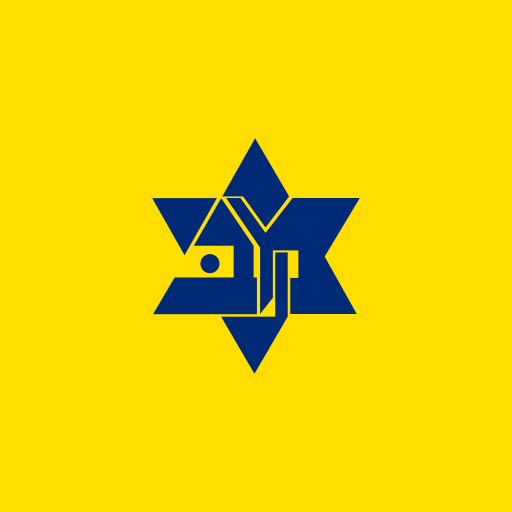
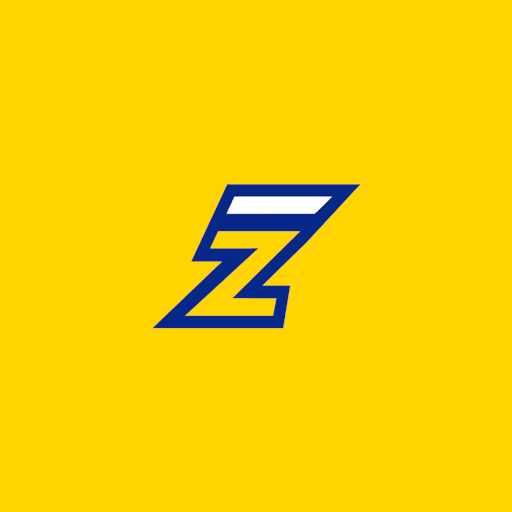
סבב תיקוני תצוגה במובייל + אייקון אפליקציה חדש (סימן Z)
מסך לבן בכניסה (landing-demo.html, אוברליי צהוב בזמן בדיקת session),
כרטיס-חצי-חתוך מטושטש בשורות גלילה (הוסרה mask-image), עיגולי קטגוריה
קטנים/מרובעים במובייל (הוגדלו + border-radius:50%), כיוון דגל ליד
"שלום רמי" הפוך, "הוסף עסק" עבר מהתפריט לפוטר home.html עם פריסת
מובייל נפרדת שלא עמוסה.

אייקוני ההתקנה (apple-touch/192/512/maskable) הוחלפו לסימן ה-Z של
המותג החדש; favicon-32.png (לשונית דפדפן) נשאר הלוגו הישן במפורש.

Changed region(s): [[0.2812, 0.2812, 0.7188, 0.7188]]

diff --git a/home.html b/home.html
@@ -168,7 +168,7 @@
       margin-bottom: 14px; line-height: 1.25;
     }
     .hero-title span { color: var(--ink); }
-    .hero-flag { vertical-align: -4px; margin-inline-start: 6px; }
+    .hero-flag { vertical-align: -4px; margin-inline-start: 6px; transform: scaleX(-1); }
     .search-bar {
       display: flex; align-items: center;
       background: var(--field); border-radius: var(--r-field);
@@ -196,17 +196,19 @@
     .cats-scroll::-webkit-scrollbar { display: none; }
     .cat-item {
       display: flex; flex-direction: column; align-items: center; gap: 8px;
-      flex-shrink: 0; width: 70px; cursor: pointer;
+      flex-shrink: 0; width: 84px; cursor: pointer;
       scroll-snap-align: start;
     }
+    /* גודל פרופורציונלי לכרטיסי-העסק (238px במובייל) — אותו יחס כמו בדסקטופ (78/294≈27%,
+       ר' @media min-width:761px למטה) במקום ה-52px הקודם שהיה קטן מדי במובייל (בקשה מפורשת). */
     .cat-circle {
-      width: 52px; height: 52px; border-radius: var(--r-tile);
+      width: 64px; height: 64px; border-radius: 50%;
       background: var(--field); color: var(--ink-2);
       display: flex; align-items: center; justify-content: center;
       flex-shrink: 0;
       transition: background .15s, color .15s;
     }
-    .cat-circle svg { width: 22px; height: 22px; }
+    .cat-circle svg { width: 27px; height: 27px; }
     .cat-item:nth-of-type(odd) .cat-circle  { background: #FFF3C9; color: #7A5B00; }
     .cat-item:nth-of-type(even) .cat-circle { background: #E3E9F7; color: #7A5B00; }
     .cat-item.active .cat-circle {
@@ -214,7 +216,7 @@
     }
     .cat-item:active .cat-circle { transform: scale(.93); }
     .cat-label {
-      font-size: 11.5px; font-weight: 600; color: var(--ink-2);
+      font-size: 12.5px; font-weight: 600; color: var(--ink-2);
       text-align: center; line-height: 1.25;
       font-family: 'Rubik', sans-serif;
       transition: color .15s, opacity .15s;
@@ -267,12 +269,8 @@
          ב-RTL "נשכח" והפריטים מתמרכזים/נדחקים במקום להיצמד לימין — ר' PROJECT_CONTEXT.md §31. */
       direction: rtl;
       justify-content: flex-start;
-      /* דהייה רכה רק בקצה השמאלי (שם תמיד נמצא הכרטיס-החצי-גלוי, ר' עיצוב X.5-כרטיסים) —
-         לא בקצה הימני: שם תמיד יושב הכרטיס הראשון האמיתי, שלם ומעוגן, בלי מה "לרמוז" עליו.
-         דהייה סימטרית (משני הצדדים) גרמה לבאג-אמת: היא כירסמה 28px מפיקסלים אמיתיים של הכרטיס
-         הראשון עצמו (לא רק מריפוד ריק), ויצרה "פינה לבנה" נראית-לעין בפינה הימנית שלו. */
-      -webkit-mask-image: linear-gradient(to right, transparent 0, black 28px, black 100%);
-      mask-image: linear-gradient(to right, transparent 0, black 28px, black 100%);
+      /* הוסרה דהייה (mask-image) שהייתה בקצה השמאלי — הכרטיס החצי-גלוי שם נראה מטושטש/דוהה
+         ללבן במקום "חצי כרטיס רגיל" (בקשה מפורשת, ר' PROJECT_CONTEXT.md). */
     }
     .cards-scroll::-webkit-scrollbar { display: none; }
 
@@ -847,6 +845,13 @@
     .site-footer-highlight.site-footer-link { text-decoration: none; }
     .site-footer-brand { color: var(--ink-3); font-weight: 700; }
     .footer-ig-icon { width: 13px; height: 13px; vertical-align: -2px; }
+    /* מובייל: השורה (כולל "הוסיפו את העסק שלכם" החדש) עמוסה מדי לצד הלוגו באותה שורה —
+       עוברים לעמודה עם הלוגו למטה (column-reverse על סדר ה-DOM המקורי: לוגו ואז שורת-קישורים)
+       ולא הפוך, כדי שהקישורים (המידע החשוב) יהיו למעלה, קרובים לתוכן העמוד. */
+    @media (max-width: 760px) {
+      .site-footer { flex-direction: column-reverse; align-items: center; gap: 8px; text-align: center; }
+      .site-footer-line { margin-inline-start: 0; }
+    }
 
     /* ══ קונטיינר רחב לדסקטופ — שטח-תוכן קבוע 1370px, ממורכז ══
        אותו רעיון מ-demo-redesign-home.html (מקור-האמת למידות), אבל עם שוליים מצומצמים (20px
@@ -1254,7 +1259,7 @@
 
 <footer class="site-footer">
   <img class="site-footer-logo" src="images/yellowzone-logo-horizontal.png" alt="Yellow Zone"/>
-  <div class="site-footer-line"><a class="site-footer-link site-footer-highlight" href="https://instagram.com/Yellowzone.mta" target="_blank"><span dir="ltr">Yellowzone.mta <svg class="footer-ig-icon" viewBox="0 0 24 24" fill="none" stroke="currentColor" stroke-width="1.8" stroke-linecap="round" stroke-linejoin="round"><rect x="3" y="3" width="18" height="18" rx="5"/><circle cx="12" cy="12" r="4"/><circle cx="17.5" cy="6.5" r="1" fill="currentColor" stroke="none"/></svg></span></a> · © 2026 · <a class="site-footer-link" href="terms.html">תקנון ומדיניות לאוהדים (עודכן: יולי 2026)</a></div>
+  <div class="site-footer-line"><a class="site-footer-link" href="business.html?ctx=menu" target="_blank" rel="noopener">הוסיפו את העסק שלכם</a> · <a class="site-footer-link site-footer-highlight" href="https://instagram.com/Yellowzone.mta" target="_blank"><span dir="ltr">Yellowzone.mta <svg class="footer-ig-icon" viewBox="0 0 24 24" fill="none" stroke="currentColor" stroke-width="1.8" stroke-linecap="round" stroke-linejoin="round"><rect x="3" y="3" width="18" height="18" rx="5"/><circle cx="12" cy="12" r="4"/><circle cx="17.5" cy="6.5" r="1" fill="currentColor" stroke="none"/></svg></span></a> · © 2026 · <a class="site-footer-link" href="terms.html">תקנון ומדיניות לאוהדים (עודכן: יולי 2026)</a></div>
 </footer>
 
 <script>
@@ -2673,10 +2678,6 @@ document.addEventListener('DOMContentLoaded', () => {
       <span class="menu-item-icon">📞</span>
       <span class="menu-item-label">צור קשר</span>
     </button>
-    <a class="menu-item" href="business.html?ctx=menu" target="_blank" rel="noopener">
-      <span class="menu-item-icon">➕</span>
-      <span class="menu-item-label">הוסף עסק</span>
-    </a>
     <a class="menu-item" id="menuBizItem" href="#" style="display:none">
       <span class="menu-item-icon">🏪</span>
       <span class="menu-item-label">העסק שלי</span>

diff --git a/landing-demo.html b/landing-demo.html
@@ -43,6 +43,15 @@
 }
 html { scroll-behavior: smooth; }
 html.lp-checking body { visibility: hidden; }
+.lp-splash {
+  display: none;
+  position: fixed; inset: 0; z-index: 999999;
+  visibility: visible;
+  align-items: center; justify-content: center;
+  background: var(--acc);
+}
+html.lp-checking .lp-splash { display: flex; }
+.lp-splash img { width: min(200px, 55vw); height: auto; }
 body {
   font-family: 'Rubik', sans-serif;
   background: var(--bg);
@@ -448,6 +457,13 @@ button { font-family: inherit; }
 </style>
 </head>
 <body>
+
+<!-- מוסתר כברירת מחדל, מוצג רק כשיש session שמור שממתין לאימות (lp-checking) — מחליף את
+     הרקע הלבן הריק שהיה נראה במובייל בזמן ה-await ל-Firebase (ר' בקשה מפורשת: "אל תציגו
+     מסך לבן, יש את מסך הכניסה להסתיר את זה"). visibility:visible כאן דורס במפורש את
+     visibility:hidden שיורש מ-html.lp-checking body, כדי שהאלמנט הזה יישאר גלוי מעל התוכן
+     המוסתר מתחתיו. -->
+<div class="lp-splash"><img src="images/yellowzone-logo-horizontal.png" alt="Yellow Zone"/></div>
 
 <!-- ══ HEADER ══ -->
 <header class="lp-header">

diff --git a/docs/PROJECT_CONTEXT.md b/docs/PROJECT_CONTEXT.md
@@ -2912,3 +2912,48 @@ Firestore collection יחיד `settings`, מסמך יחיד בשימוש `messag
 - שכבת "טשטוש+CTA נעול" מתחת לפיד הייתה `position:absolute` בגובה קבוע (220px) שכיסתה בפועל כ-85% מגובה הכרטיס (רק פס עליון של התמונה נשאר גלוי) — הוחלף לזרימה רגילה (לא absolute), פותר את הבעיה מהשורש בלי מספרי-קסם.
 
 **⚠ עדיין פתוח:** מסך ניהול לעריכת תוכן דף הנחיתה (כותרת הירו, שני כרטיסי-התמונה, טקסטים) — המשתמש בחר במפורש "מסך ניהול בפועל" (לא עריכת-קוד ידנית) כמנגנון-העריכה השוטף, לפי דפוס `settings/sectionAnchors`+preview-חי הקיים ב-`admin-sections-anchors-demo.html`. טרם התחיל.
+
+## 86. מסך פתיחה (splash) צהוב ב-`home.html`, כניסה ראשונה לסשן (2026-08-01)
+
+**✅ הושלם ונדחף.** מטרה: למנוע "תקיעות" ויזואלית (כרטיסי-פיד קופצים פנימה) שהמשתמש ראה במובייל בעליית האתר, בהשראת מסך-הפתיחה של וולט.
+
+**למה רק `home.html`:** זו הכניסה החזותית הראשונה בפועל — `landing-demo.html` הוא דף שיווקי/הרשמה סטטי בלי פיד Firestore (אין שם "קפיצה"), וחברים עם session פעיל ממילא מדלגים עליו בלי לראות אותו (`lp-checking` מסתיר את הגוף עד הפניה אוטומטית ל-`home.html`, ר' [[project_login_code_architecture]]).
+
+**מנגנון (`home.html`, קרוב לתחילת ה-`<body>`):**
+- מוצג פעם אחת בלבד לכל סשן/טאב (`sessionStorage['hb_splash_shown']`) — ניווט חוזר ל-`home.html` מדף אחר באותו סשן לא מציג אותו שוב.
+- נשאר על המסך **מינימום 1.5 שניות** גם אם הכרטיסים כבר מוכנים מהר יותר (רגע-מותג מכוון, לא מבוזק) — נעלם רק כשנקרא `window._hbHideSplash()` בפועל (מ-`loadFirebaseData`, כשיש תוכן אמיתי על המסך) **וגם** חלף זמן-המינימום.
+- רשת ביטחון: `setTimeout` של 3.5 שניות שקורא ל-`_hbHideSplash()` בכל מקרה, למניעת תקיעות אם הנתונים לעולם לא מגיעים (כשל רשת).
+- חל זהה בדסקטופ ובמובייל — הוחלט במפורש לא להגביל רק למובייל (כמו וולט, שגם לא מגביל).
+
+**עיצוב:** רקע `var(--yellow)` (`#FFD400`) — **לא לבן**, תוקן אחרי שהמשתמש ציין שראה רקע לבן. לוגו הוחלף מ-`icons/logo-splash.jpeg` (JPEG עם רקע-לבן-אטום מוטבע בקובץ עצמו) ל-`images/yellowzone-logo-horizontal.png` (שקיפות אמיתית מאומתת, `PixelFormat=Format32bppArgb`) — אחרת הלוגו היה נראה כריבוע לבן בתוך שדה צהוב.
+
+**מלכודת שנתקלנו בה בבדיקה:** אחרי ה-commit, המשתמש בדק מול האתר החי ולא ראה שינוי — לא באג בלוגיקה (שנבדקה ואומתה בקובץ-בדיקה זמני נפרד), אלא שה-commit עדיין לא היה pushed (`git status` "ahead of origin"). גם אחרי push, ל-PWA יש `sw.js` אמיתי שיכול להמשיך להגיש גרסה ישנה מהמטמון לרגע — מומלץ רענון-קשיח (Ctrl+Shift+R) או גלישה-פרטית לבדיקה. קומיטים: `8329b49` (מנגנון), `afca720` (תיקון צבע).
+
+## 87. סבב תיקוני תצוגה — מסך לבן ב-`landing-demo.html`, כרטיס-חצי-חתוך מטושטש, קטגוריות קטנות במובייל, כיוון דגל, "הוסף עסק" עבר לפוטר (2026-08-01)
+
+**1. מסך לבן במובייל בכניסה — תוקן שורש שונה מ-§86.** ההנחה ב-§86 ("חברים עם session פעיל מדלגים על `landing-demo.html` בלי לראות אותו, `lp-checking` מסתיר את הגוף עד ההפניה") **הייתה חלקית**: `lp-checking` אכן מסתיר את הגוף (`visibility:hidden`), אבל ההפניה עצמה לא מיידית — היא ממתינה ל-`await onAuthStateChanged(...)` (טעינת מודול Firebase Auth שלם + סבב-רשת), שיכול לקחת זמן ניכר במובייל. באותו חלון-זמן לא היה שום דבר גלוי מעבר לרקע-ברירת-מחדל הלבן של הדפדפן — בדיוק ה"מסך הלבן" שדווח. **תוקן:** נוסף `.lp-splash` (`landing-demo.html`) — אוברליי צהוב (`var(--acc)`) עם הלוגו, `position:fixed`+`z-index:999999`+`visibility:visible` מפורש (דורס את ה-`visibility:hidden` שיורש מ-`body`), מוצג רק כש-`html.lp-checking` פעיל. אותו רעיון בדיוק כמו `.hb-splash` ב-`home.html` (§86), רק על הגייט השני שלא טופל אז. **אומת בדפדפן:** עם `lp-checking` פעיל, `getComputedStyle` מראה `.lp-splash` ב-`display:flex`/`visibility:visible` בזמן שה-`body` נשאר `visibility:hidden` מתחתיו.
+
+**2. כרטיס חצי-חתוך בקצה שורת-גלילה נראה מטושטש/דוהה ללבן (למשל "טורנדו אפ איקס" בסקשן "הטבות שוות").** שורש: `.cards-scroll` (`home.html`) הייתה עם `mask-image: linear-gradient(to right, transparent 0, black 28px, black 100%)` — דהייה מכוונת של 28px בקצה השמאלי, במקור כדי "לרמוז" על תוכן נוסף, אך בפועל נראתה כפינה לבנה מטושטשת על כרטיס אמיתי. **תוקן:** הוסרה כליל (`mask-image`/`-webkit-mask-image`) — הכרטיס החצי-גלוי מוצג עכשיו "חצי רגיל", חתוך נקי בלי דהייה, לפי בקשה מפורשת.
+
+**3. עיגולי קטגוריה קטנים מדי במובייל.** גודל-בסיס (מובייל) היה `.cat-circle` 52px / `.cat-item` 70px רוחב / אייקון 22px / תווית 11.5px — הרבה יותר קטן יחסית לכרטיסי-העסק (238px) מאשר ביחס-הדסקטופ (`.cat-circle` 78px מול כרטיס 294px, ≈27%). **תוקן:** הוגדל למובייל ל-`.cat-circle` 64px / `.cat-item` 84px / אייקון 27px / תווית 12.5px — יחס דומה לדסקטופ, בלי לגעת ב-`@media (min-width:761px)` הקיים. **תיקון-המשך (אותו יום, אחרי בדיקת המשתמש):** המשתמש ציין שהם "לא עיגולים, ריבועים" — `.cat-circle` היה עם `border-radius: var(--r-tile)` (15px קבוע, לא יחסי לגודל) שבגודל 64px נראה כריבוע-מעוגל ולא עיגול אמיתי. תוקן ל-`border-radius: 50%` — עיגול אמיתי, חל אוטומטית גם על הגרסה הגדולה בדסקטופ (לא נגעתי שם בנפרד, אותו כלל בסיס).
+
+**4. כיוון דגל ליד "שלום, [שם]".** נוסף `transform: scaleX(-1)` ל-`.hero-flag` (ה-SVG המונפש) — הדגל "מתנפנף" עכשיו שמאלה במקום ימינה, לפי בקשה מפורשת.
+
+**5. "הוסף עסק" עבר מהתפריט המלא (המבורגר) לשורת הפוטר התחתונה של `home.html`.** הוסר פריט התפריט (`business.html?ctx=menu`), נוסף כקישור בתוך `.site-footer-line` (אותו `ctx=menu` נשמר — עדיין מפעיל את כפתור "חזרה לאתר" ב-`business.html` עבור PWA standalone, ר' §1192). **מובייל:** כדי שלא תהיה שורה עמוסה מדי (לוגו + 3 קישורים באותה שורה), נוסף `@media (max-width:760px)` שהופך את `.site-footer` ל-`flex-direction:column-reverse` — שורת הקישורים למעלה (קרוב לתוכן), הלוגו יורד למטה — בדיוק ההצעה של המשתמש. דסקטופ (`min-width:761px`) לא השתנה — נשאר שורה אחת.
+
+**לא אומת ויזואלית עם session אמיתי (`home.html` מוגן ב-Firebase Auth guard אמיתי, אין session בסביבת הבדיקה)** — אומת בקוד/CSS + ב-`getComputedStyle` על הדפים שאפשר לטעון בלי התחברות (`landing-demo.html`). מומלץ למשתמש לבדוק ויזואלית במובייל אמיתי, כולל ניקוי SW+cache (ר' [[feedback_dev_server_sw_cache]]).
+
+## 88. אייקון האפליקציה (PWA/favicon/apple-touch) הוחלף לסימן ה-Z של המותג החדש (2026-08-01)
+
+**הבעיה:** כל 5 קבצי האייקון ב-`icons/` (`favicon-32.png`/`apple-touch-icon.png`/`icon-192.png`/`icon-512.png`/`icon-maskable-512.png`) עדיין הציגו את הלוגו **הישן** — מגן דוד כחול על רקע צהוב, לפני המעבר למותג "YellowZone". `manifest.json`/`<head>` כבר הפנו לקבצים האלה נכון — רק התוכן הגרפי בפנים היה מיושן.
+
+**המקור:** המשתמש סיפק `YZ.zip` (חבילת-מסירה מהמעצב, `270726 delivery/`) שכללה בין השאר `Yellowzone_logo_icon_270726-02.png` — קובץ עם שתי גרסאות של סימן ה-"Z" (הברק הכחול-צהוב שבתוך לוגו-המילה המלא): גרסה עם רקע שקוף, וגרסה מוכנה-מראש על רקע עיגול צהוב. **תובנת עיצוב חשובה שנלקחה מהגרסה המוכנה:** בלוגו-המילה המלא לפס-האלכסוני העליון יש הדגשה בצהוב (`#FFCE00`) — אבל כשמניחים את הסימן על רקע צהוב (כמו אייקון), הפס הזה "נבלע" ברקע. הגרסה שהמעצב הכין מראש לרקע-עיגול פתרה את זה ע"י הפיכת הפס ללבן במקום צהוב. אימצתי את אותו פתרון: חילצתי את סימן ה-Z השקוף (חיתוך-פיקסלים לפי alpha-bounding-box מ-1920×1080 המקורי), וצבעתי מחדש כל פיקסל צהוב (כולל שוליים אנטי-אליאסד מעורבבים עם הכחול, לא רק צהוב טהור) ללבן.
+
+**נבנו 5 הקבצים מחדש** (PowerShell + `System.Drawing`, אין ImageMagick/Python בסביבה) — כולם רקע `#FFD400` (`--acc`), הסימן ממורכז:
+- `favicon-32.png` (32×32): רקע מלא (בלי עיגול-פינות), הסימן בקנה-מידה 72% מהקנבס (בולט וקריא גם בגודל זעיר).
+- `apple-touch-icon.png` (180×180) / `icon-192.png` (192×192) / `icon-512.png` (512×512): "סקוורקל" — פינות מעוגלות ברדיוס ≈20.7% מהגודל (נמדד מהאייקון הישן עצמו כדי לשמור על אותה שפה חזותית), פינות שקופות מחוץ לעיגול (כמו שהיה קודם), הסימן בקנה-מידה 60%.
+- `icon-maskable-512.png` (512×512): **רקע מלא בלי שקיפות בכלל** (דרישת-maskable — ה-OS מפעיל מיסוך משלו, פינות שקופות היו "מתגלות"), הסימן מוקטן ל-42% (בטוח בתוך ה-safe-zone של ~80% מהקוטר).
+
+**קבצי ה-`.svg` המקבילים (`icon-192.svg` וכו') נשארו כמו שהיו — לא בשימוש בפועל** (נבדק ב-grep על כל ה-HTML, רק הגרסאות `.png` מקושרות מ-`manifest.json`/`<head>`), ולא היה מקור-וקטור זמין (קובץ ה-`.ai` המקורי לא נפתח בכלים הזמינים בסביבה) כדי לעדכן אותם באמת.
+
+**לא אומת ב-PWA מותקנת בפועל (רק בקבצים/מידות/פורמט)** — מומלץ למשתמש לרענן/להתקין-מחדש את ה-PWA (`sw.js` עלול להגיש קבצים ישנים מהמטמון, ר' [[feedback_dev_server_sw_cache]]) ולוודא שהאייקון החדש מופיע נכון על מסך הבית ובלשונית הדפדפן.
